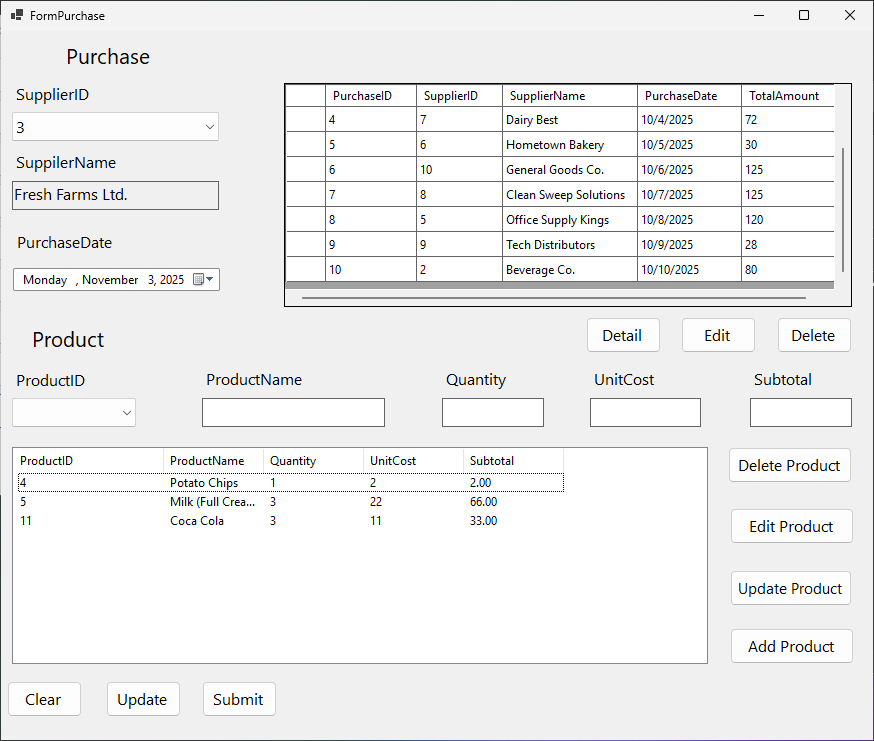
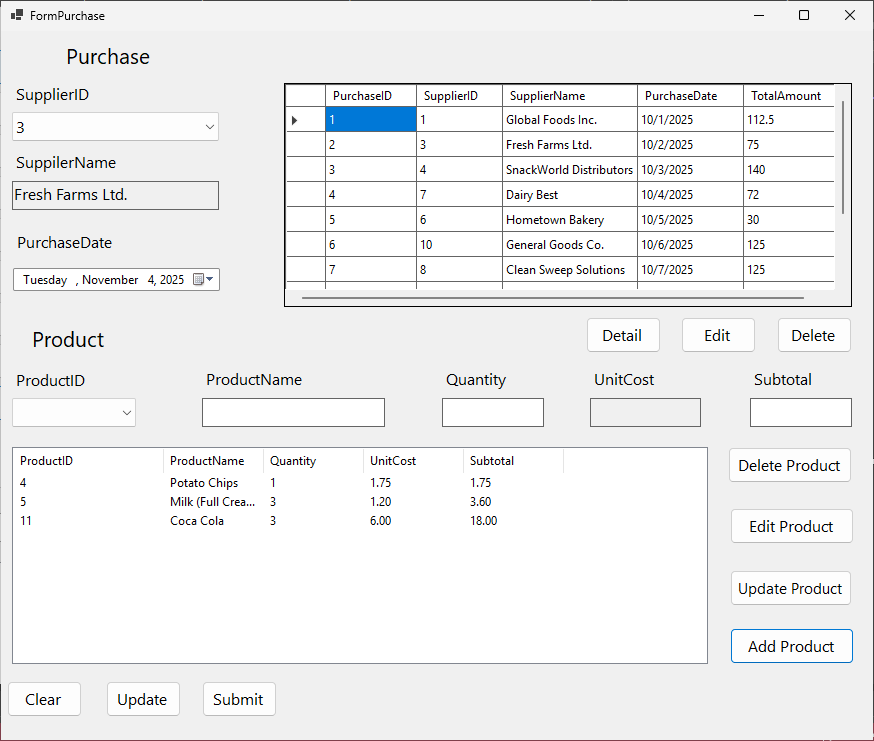
fix: unitprice, unitcost

diff --git a/mart-management/FormSale.cs b/mart-management/FormSale.cs
@@ -64,8 +64,14 @@ namespace mart_management
 
         private void CboProductID_SelectionChangeCommitted(object sender, EventArgs e)
         {
-
             TxtProductName.Text = CboProductID.SelectedValue.ToString();
+
+            using var db = new MartManagementContext();
+            var product = db.Products.FirstOrDefault(p => p.ProductID == int.Parse(CboProductID.Text));
+            if (product != null)
+            {
+                TxtUnitPrice.Text = product.UnitPrice.ToString("F2");
+            }
         }
 
         private void TxtQuantity_TextChanged(object sender, EventArgs e)
@@ -224,24 +230,6 @@ namespace mart_management
                     product.SubItems.Add(sd.Subtotal.ToString("F2"));
                     LvProduct.Items.Add(product);
                 }
-
-
-
-
-
-                //var products = db.SaleDetails
-                //    .Include(sd => sd.Sale)
-                //    .Include(sd => sd.Product)
-                //    .Where(sd => sd.SaleID == sale.SaleID)
-                //    .ToList().Select(sd => new
-                //    {
-                //        sd.ProductID,
-                //        sd.Product.ProductName,
-                //        sd.Quantity,
-                //        sd.UnitPrice,
-                //        sd.Subtotal
-                //    }).ToList();
-
 
                 _currentSale = sale;
                 _currentSaleDetails = saleDetails;

diff --git a/mart-management/FormPurchase.cs b/mart-management/FormPurchase.cs
@@ -64,6 +64,13 @@ namespace mart_management
         private void CboProductID_SelectionChangeCommitted(object sender, EventArgs e)
         {
             TxtProductName.Text = CboProductID.SelectedValue.ToString();
+
+            using var db = new MartManagementContext();
+            var product = db.Products.FirstOrDefault(p => p.ProductID == int.Parse(CboProductID.Text));
+            if (product != null)
+            {
+                TxtUnitCost.Text = product.CostPrice.ToString("F2");
+            }
         }
 
         private void TxtQuantity_TextChanged(object sender, EventArgs e)

diff --git a/mart-management/FormSale.Designer.cs b/mart-management/FormSale.Designer.cs
@@ -303,6 +303,7 @@
             TxtUnitPrice.Font = new Font("Segoe UI", 12F, FontStyle.Regular, GraphicsUnit.Point, 0);
             TxtUnitPrice.Location = new Point(659, 409);
             TxtUnitPrice.Name = "TxtUnitPrice";
+            TxtUnitPrice.ReadOnly = true;
             TxtUnitPrice.Size = new Size(131, 29);
             TxtUnitPrice.TabIndex = 65;
             TxtUnitPrice.TextChanged += TxtUnitPrice_TextChanged;

diff --git a/mart-management/FormPurchase.Designer.cs b/mart-management/FormPurchase.Designer.cs
@@ -110,6 +110,7 @@
             TxtUnitCost.Font = new Font("Segoe UI", 12F, FontStyle.Regular, GraphicsUnit.Point, 0);
             TxtUnitCost.Location = new Point(589, 367);
             TxtUnitCost.Name = "TxtUnitCost";
+            TxtUnitCost.ReadOnly = true;
             TxtUnitCost.Size = new Size(111, 29);
             TxtUnitCost.TabIndex = 94;
             TxtUnitCost.TextChanged += TxtUnitCost_TextChanged;
